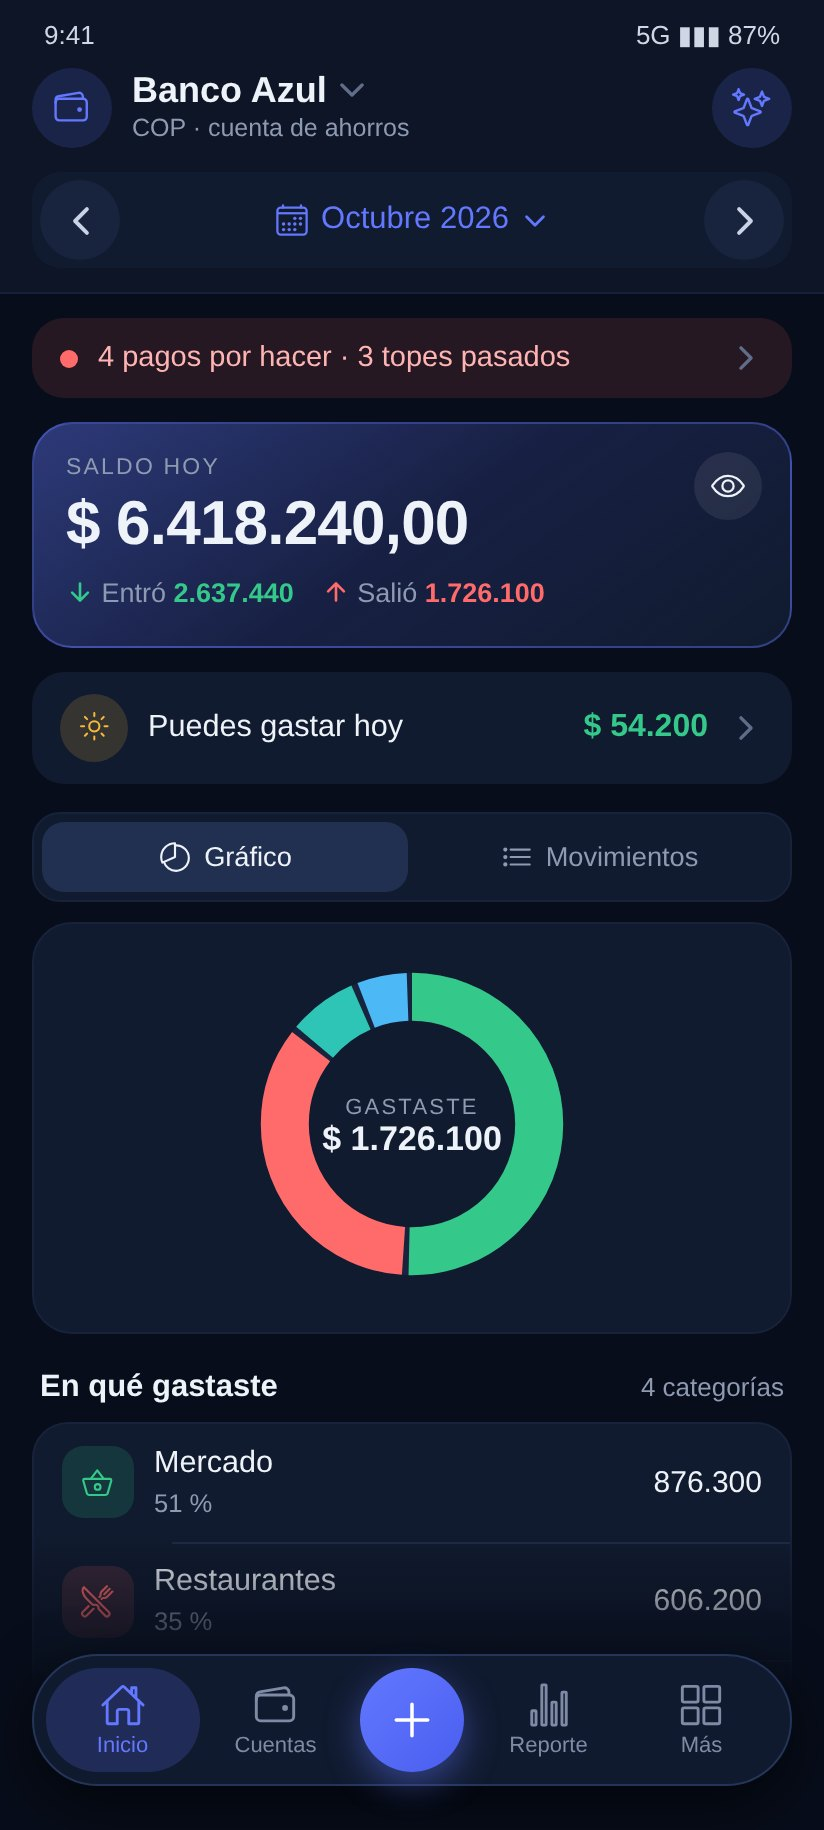
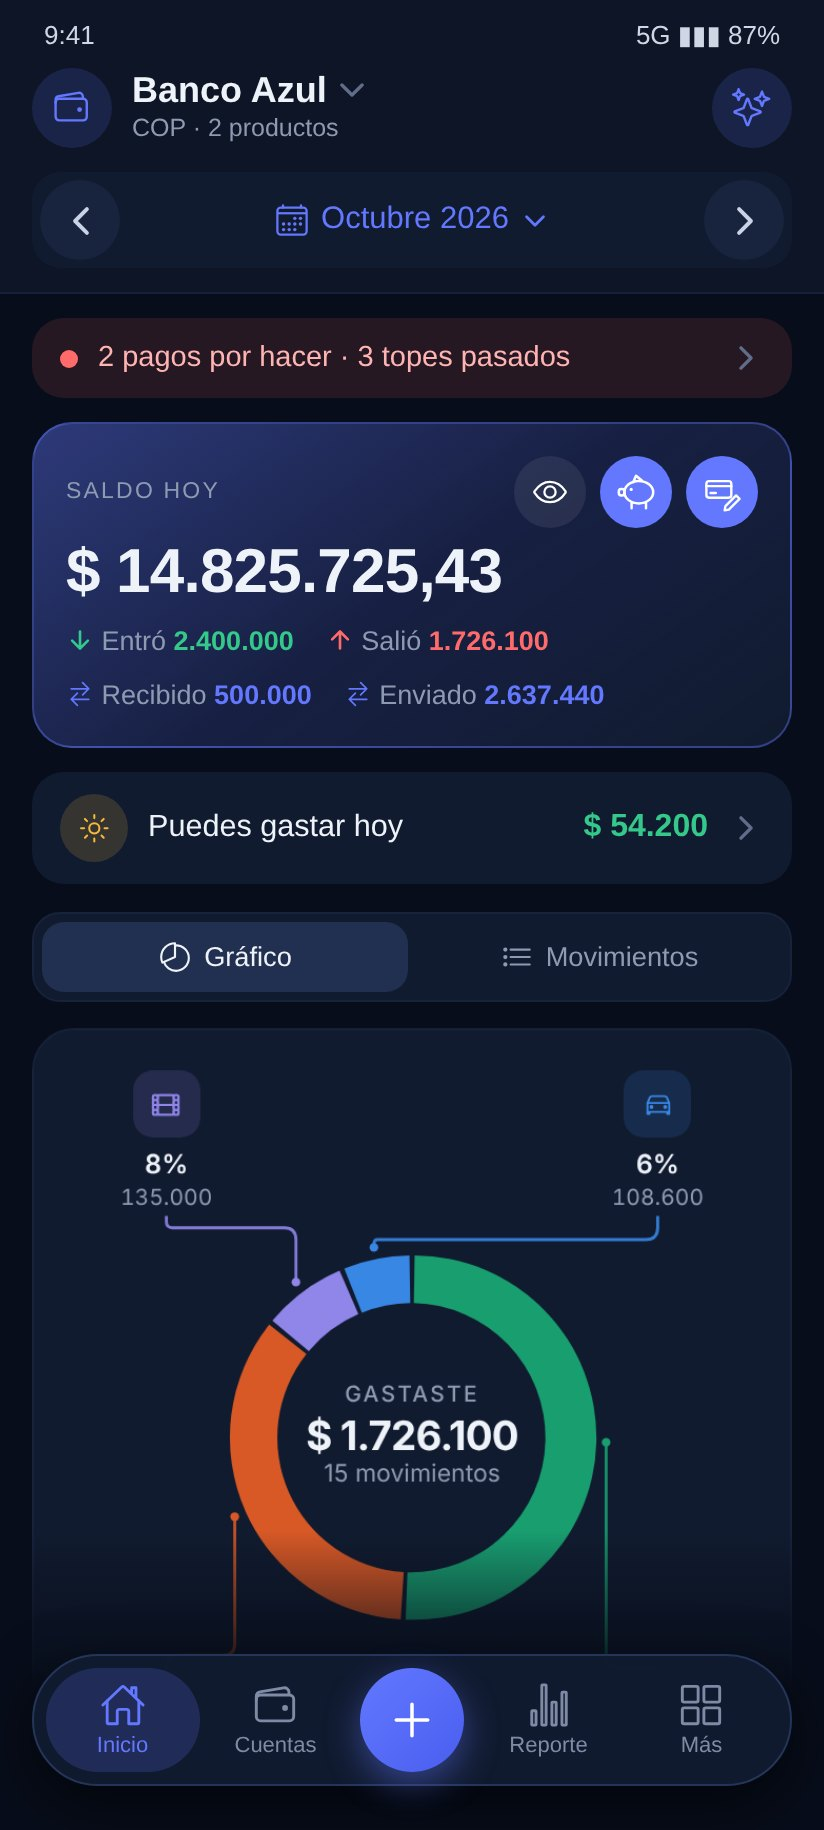
Mockups 49 v2: a calmer Inicio, every figure kept (#259)
* Finance Pro follows the Google account: a fixed Pro code to grant for good

Claude-Session: https://claude.ai/code/session_01QyUqFix1SMdsKVBtd1Wz88

* Show the month's caps in the report, keep the app's last errors for a fault report, list providers in the privacy policy

Claude-Session: https://claude.ai/code/session_01QyUqFix1SMdsKVBtd1Wz88

* Hide the Finance Pro account id behind a long press and say it is no code to give away

Claude-Session: https://claude.ai/code/session_01QyUqFix1SMdsKVBtd1Wz88

* Say a transfer both banks told as one transfer, on the phone's notice and in Por revisar

Claude-Session: https://claude.ai/code/session_01QyUqFix1SMdsKVBtd1Wz88

* Name accounts, never SMS senders, in the transfer notice

Claude-Session: https://claude.ai/code/session_01QyUqFix1SMdsKVBtd1Wz88

* Never leave a hole of yield days after a clearing

Clearing keeps the days corrected by hand, and the walk resumed from the
month of the last day standing, so a corrected day in a later month left
the days before it unwritten (Dale lost 25-30 September). Resume from the
last day the engine wrote itself, and go back for any day missing between
two worked-out days, so a phone that already lost days heals on its next pass.

Claude-Session: https://claude.ai/code/session_01QyUqFix1SMdsKVBtd1Wz88

* Show what one account can spend today when it is chosen on Inicio

Puedes gastar hoy showed the whole picture whatever account was chosen. With
[…]

diff --git a/docs/mockups/README.md b/docs/mockups/README.md
@@ -188,13 +188,15 @@ Deudas inventadas: Tarjeta Coral 4.200.000 al 28,5 % (le paga 220.000 al mes), L
 - `48k` sin deudas.
 - `48l` el asistente lleva al plan.
 
-## 49 - Un Inicio más tranquilo (2026-10-29, propuesta)
+## 49 - Un Inicio más tranquilo (2026-10-29, propuesta, v2)
 
-Jose: "demasiada info junta que hace perder al usuario". Nada se borra; cada cosa queda a un toque.
+Jose: "demasiada info junta que hace perder al usuario". v2 tras su revisión: el gráfico queda como está (son capturas de la app), ninguna cifra se pierde y los botones rápidos no se mueven.
 
-- `49a` una cuenta: Pendientes en una línea (roja solo si algo está vencido o pasado), el saldo con una línea "Entró · Salió", "Puedes gastar hoy" en una fila, el gráfico.
-- `49a2` más abajo: "En qué gastaste" solo con gastos; "Lo que entró y lo que moviste" como sección aparte, una fila por tipo que se abre.
-- `49b` una tarjeta: lo que debes, una barra del cupo y cuándo pagar; el cupo disponible y el total quedan en la página de la tarjeta.
-- `49c` al tocar Pendientes: pagos, topes pasados y recordatorios en una hoja.
-- `49d` todas las cuentas: patrimonio, y lo movido entre tus cuentas en su sección.
-- `49e` qué cambia y a dónde se va cada cosa.
+- `49a` una cuenta: Pendientes en una línea; el saldo con Entró · Salió y, en azul, Recibido · Enviado (cada una solo si tiene algo); el ojo, los productos y editar, como hoy.
+- `49b` más abajo: la lista de categorías como hoy, y debajo, con su título, Ingresos y Entre tus cuentas.
+- `49b2` una tarjeta más abajo: Devoluciones y los pagos a la tarjeta, cada uno con su título.
+- `49c` una tarjeta: lo que debes, "Usas el 14 % · te quedan X de Y" en una línea, cuándo pagar, Salió · Recibido.
+- `49d` una tarjeta en cada caso: vencida, pasada del cupo, saldo a favor, sin deuda, sin cupo.
+- `49e` todas las cuentas: patrimonio, Entró · Salió y lo movido entre tus cuentas.
+- `49f` al tocar Pendientes: pagos, topes, metas y recordatorios.
+- `49g` qué cambia y qué se queda igual.
